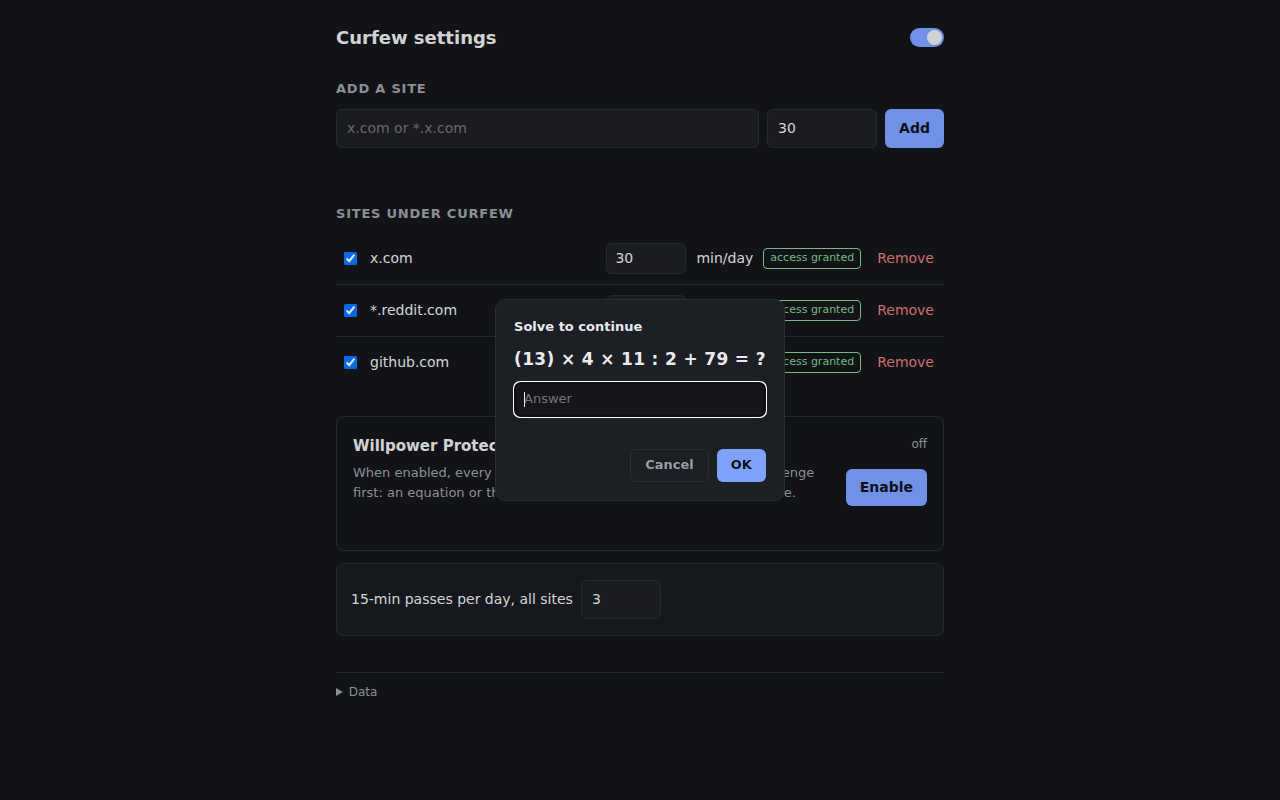
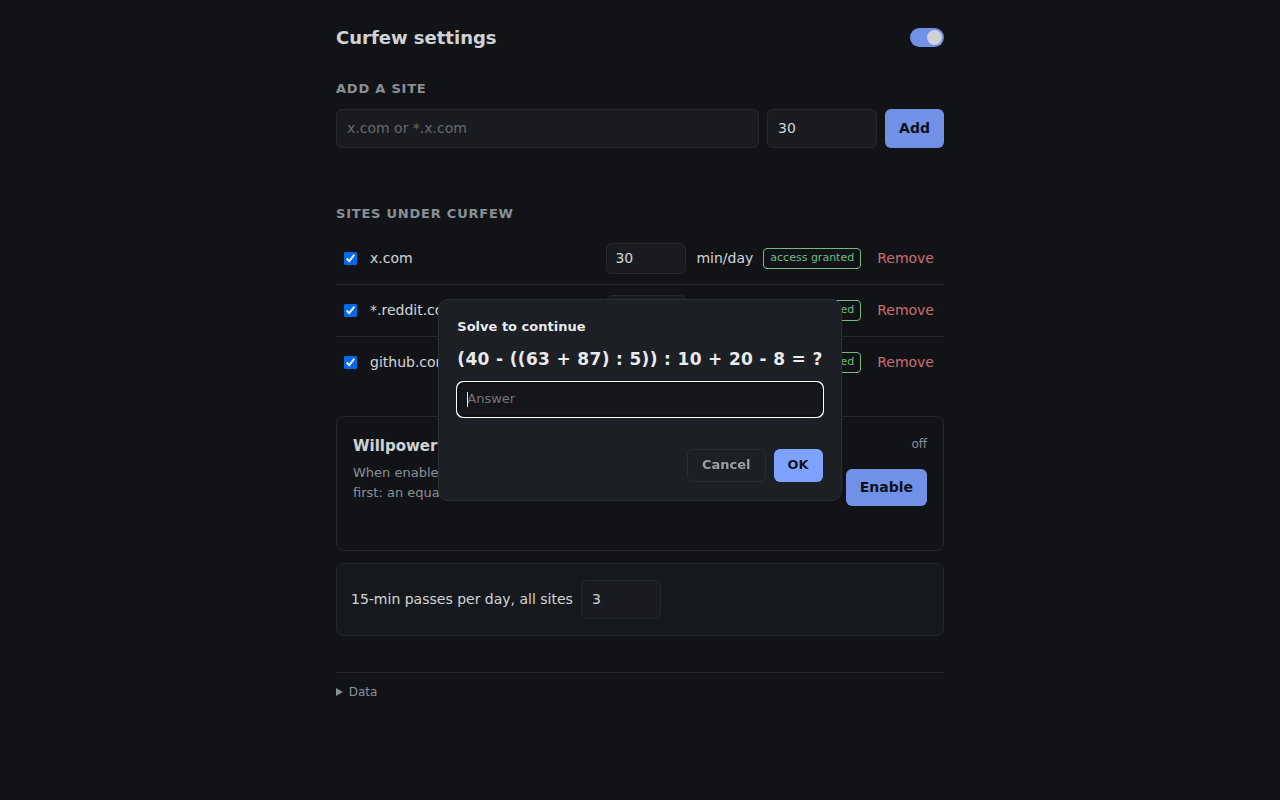
docs: desktop store screenshots, add 15-puzzle shot

diff --git a/README.md b/README.md
@@ -51,9 +51,10 @@ YOU choose, with budgets YOU set. A curfew doesn't say "never". It says
   Uninstalling deletes everything
 
 <p>
-  <img src="docs/screenshots/popup.png" width="31%">
-  <img src="docs/screenshots/wall.png" width="31%">
-  <img src="docs/screenshots/challenge.png" width="31%">
+  <img src="docs/screenshots/popup.png" width="49%">
+  <img src="docs/screenshots/wall.png" width="49%">
+  <img src="docs/screenshots/challenge.png" width="49%">
+  <img src="docs/screenshots/puzzle.png" width="49%">
 </p>
 
 ## How it works
